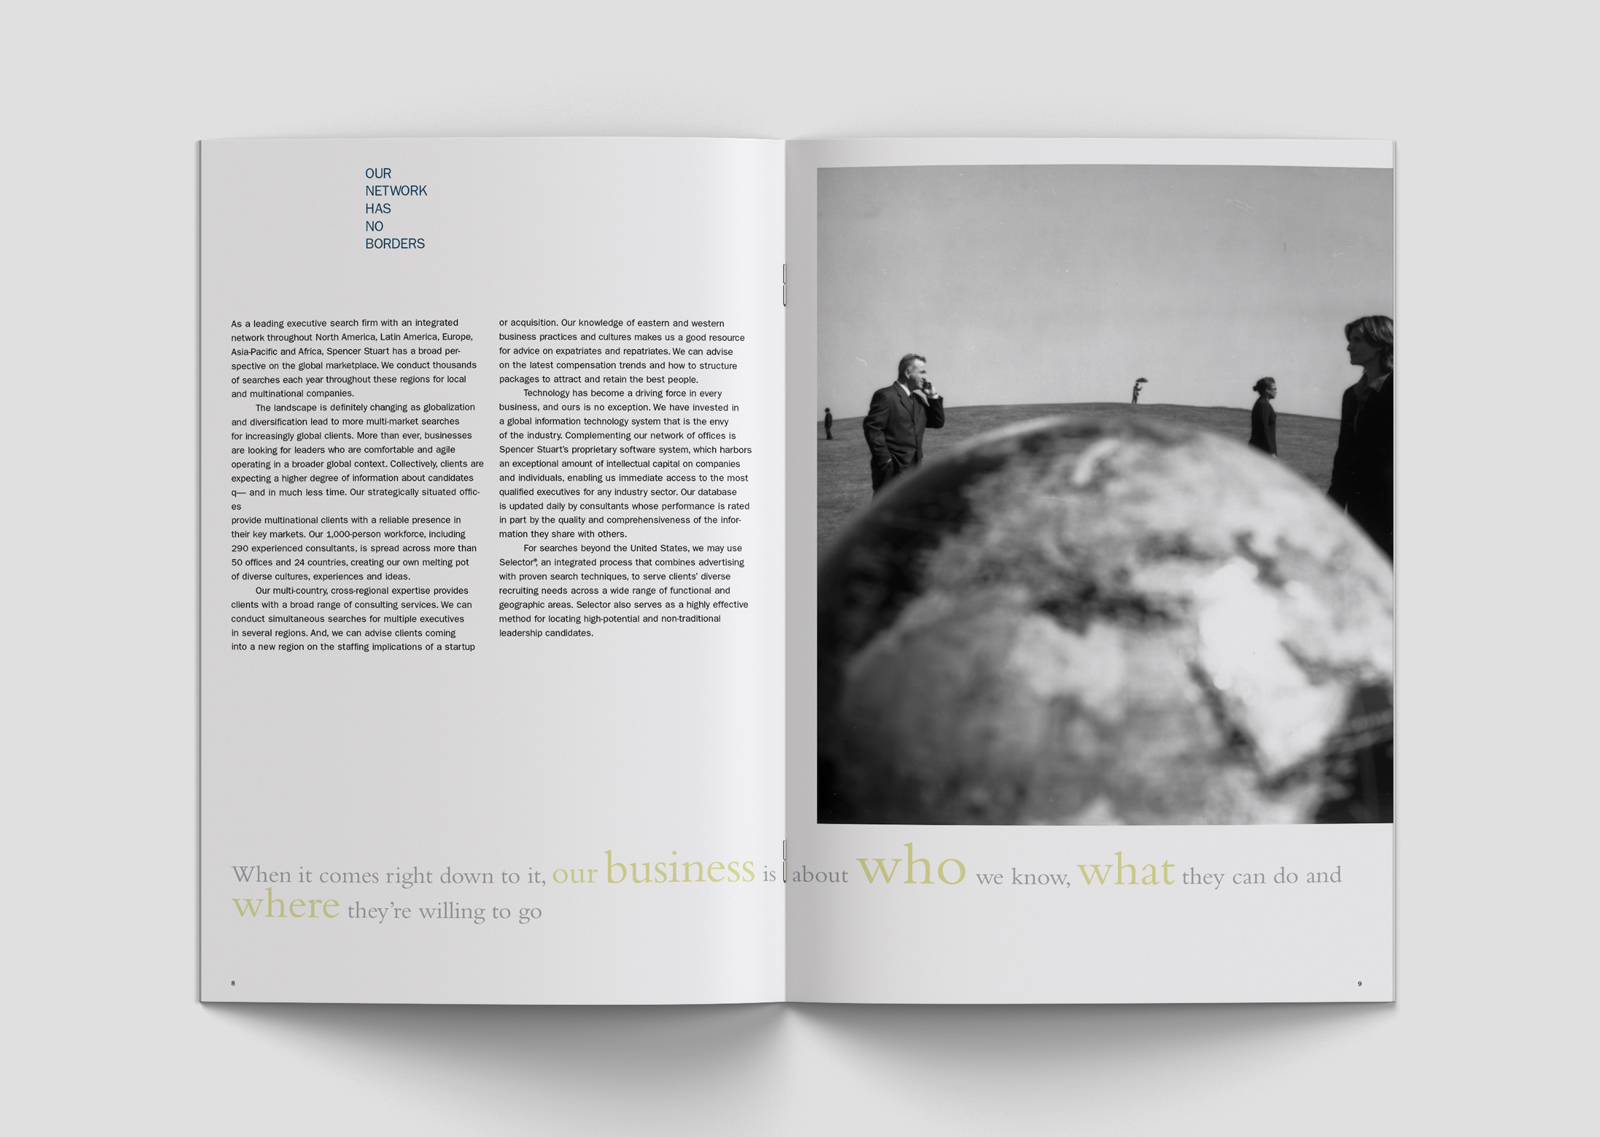
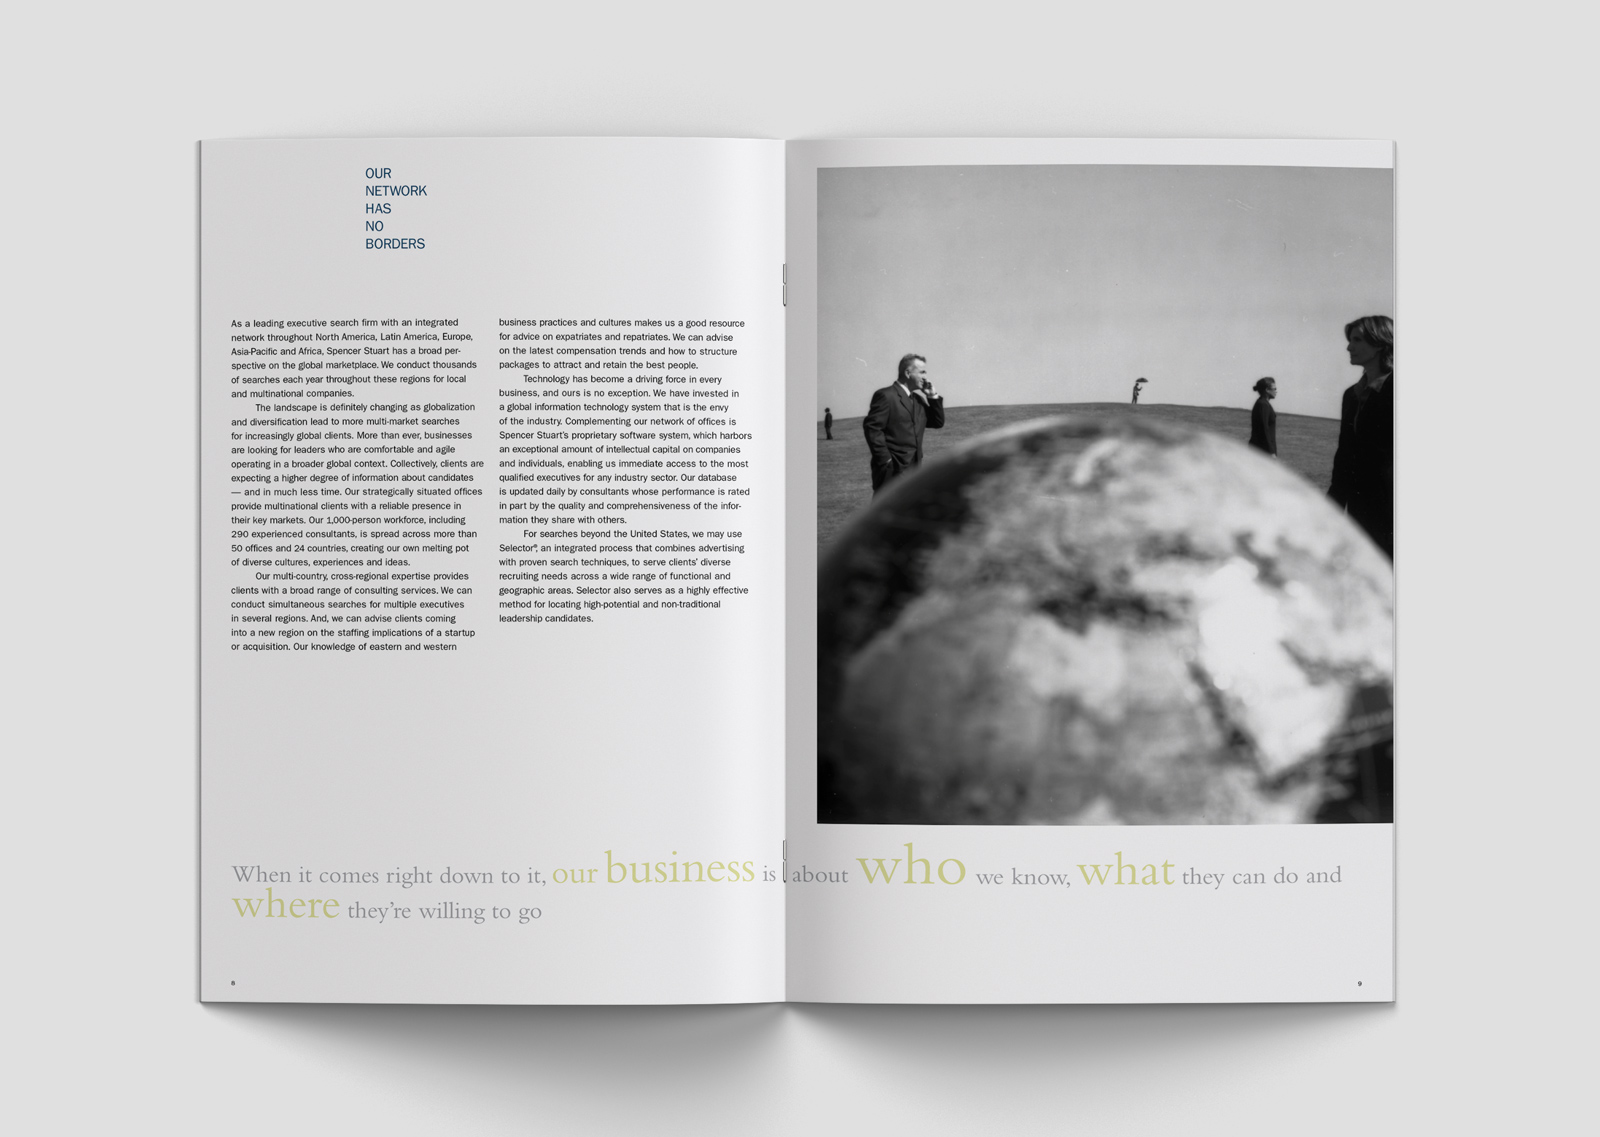
Image correction + copy edits
Spencer Stuart + Consolidated images – fixed fukt line breaks in images.

GFI – Corrected page title, project title and meta tag content.

I Also DId This – changed page title

Changed region(s): [[0.125, 0.277, 0.4688, 0.5849], [0.1562, 0.3078, 0.2812, 0.3386]]

diff --git a/work_gfi.html b/work_gfi.html
@@ -4,19 +4,19 @@
 <head>
     <meta charset="UTF-8">
 
-    <title>Good Food Institute + Paul Wong</title>
+    <title>The Good Food Institute + Paul Wong</title>
 
     <meta name="viewport" content="width=device-width, initial-scale=1.0">
-    <meta name="description" content="The Good Food Institute start-up manual.">
+    <meta name="description" content="The Good Food Startup Manual.">
 
     <meta property="og:title" content="The Good Food Institute + Paul Wong" />
-    <meta property="og:description" content="The Good Food Institute start-up manual." />
+    <meta property="og:description" content="The Good Food Startup Manual." />
     <meta property="og:image" content="???" />
     <meta property="og:url" content="http://www.pauldub.com/work_gfi.html" />
 
     <meta name="twitter:card" content="???">
     <meta name="twitter:title" content="The Good Food Institute + Paul Wong">
-    <meta name="twitter:description" content="The Good Food Institute start-up manual.">
+    <meta name="twitter:description" content="The Good Food Startup Manual.">
     <meta name="twitter:image" content="???">
 
     <link rel="shortcut icon" href="_favicon.ico" type="image/x-icon">
@@ -51,7 +51,7 @@
 <div class="container-work">
 
     <div class="work_title">
-        <h1><span class="type_semibold">The Good Food Institute</span> <span class="type_orange type_light" letter-spacing="-2px">//</span> Process Manual for Plant-based Start-ups</h1>
+        <h1><span class="type_semibold">The Good Food Institute</span> <span class="type_orange type_light" letter-spacing="-2px">//</span> The Good Food Startup Manual</h1>
     </div>
 
     <div class="work_desc_left">

diff --git a/work_zalso.html b/work_zalso.html
@@ -4,19 +4,19 @@
 <head>
     <meta charset="UTF-8">
 
-    <title>Other stuff by Paul Wong</title>
+    <title>Paul Wong also did this</title>
 
     <meta name="viewport" content="width=device-width, initial-scale=1.0">
-    <meta name="description" content="Other stuff by Paul Wong.">
+    <meta name="description" content="Paul Wong also did this.">
 
-    <meta property="og:title" content="Other stuff by Paul Wong" />
-    <meta property="og:description" content="Other stuff by Paul Wong." />
+    <meta property="og:title" content="Paul Wong also did this" />
+    <meta property="og:description" content="Paul Wong also did this." />
     <meta property="og:image" content="???" />
-    <meta property="og:url" content="http://www.pauldub.com/work_spencerstuart.html" />
+    <meta property="og:url" content="http://www.pauldub.com/zalso.html" />
 
     <meta name="twitter:card" content="???">
-    <meta name="twitter:title" content="Other stuff by Paul Wong">
-    <meta name="twitter:description" content="Other stuff by Paul Wong.">
+    <meta name="twitter:title" content="Paul Wong also did this">
+    <meta name="twitter:description" content="Paul Wong also did this.">
     <meta name="twitter:image" content="???">
 
     <link rel="shortcut icon" href="_favicon.ico" type="image/x-icon">
